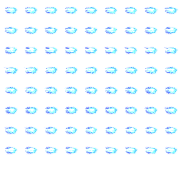
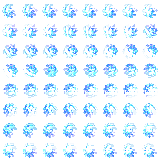
added some effects to the game state. Basically the foundation of explosion or burst effects along with sound effects

diff --git a/Abyss/Master/GameMaster.cs b/Abyss/Master/GameMaster.cs
@@ -1,5 +1,6 @@
 using Abyss.Draw;
 using Abyss.Entities;
+using Abyss.Entities.Magic;
 using Abyss.Map;
 using Abyss.UI;
 using Microsoft.Xna.Framework;
@@ -45,12 +46,18 @@ namespace Abyss.Master
         // declare debug vars
         protected internal double fps;
 
+        // draw data
+        protected internal List<Effect> effects;
+
         // save data
         protected internal GameData save;
         private bool in_tutorial;
 
         // declare basic constructor
-        public GameMaster() { }
+        public GameMaster() 
+        { 
+            effects = new List<Effect>();
+        }
 
 
 
@@ -171,6 +178,13 @@ namespace Abyss.Master
 
 
 
+        // EFFECTS
+        public void Burst(Vector2 position)
+        {
+            effects.Add(Effect.BurstEffect(position));
+        }
+
+
 
 
 
@@ -262,6 +276,7 @@ namespace Abyss.Master
                         // clear particles
                         player.Inventory.grimoires[0].Clear();
                         player.Inventory.grimoires[1].Clear();
+                        effects.Clear();
                     }
                 }
             }
@@ -281,9 +296,12 @@ namespace Abyss.Master
                 // enemies take damage
                 for (int i = 0; i < 2; i++)
                 {
-                    double damage_dealt = player.Inventory.grimoires[i].Hits(entity);
-                    if (damage_dealt != 0)
-                        entity.ReduceHealth(damage_dealt);
+                    Particle damager = player.Inventory.grimoires[i].Hits(entity);
+                    if (damager != null)
+                    {
+                        this.Burst(damager.position);
+                        entity.ReduceHealth(damager.damage);
+                    }
                 }
 
                 // enemies deal damage
@@ -306,6 +324,9 @@ namespace Abyss.Master
                     this.LoadSaveState(SaveState.start);
                 this.current_level.ResetEntities();
             }
+
+            foreach (Effect effect in effects) effect.Update(delta);
+            effects.RemoveAll(fx => fx.IsDead());
         }
 
 
@@ -333,6 +354,8 @@ namespace Abyss.Master
             // draw the particles of the game
             sprite_batch.Draw(player.Inventory.grimoires[0]);
             sprite_batch.Draw(player.Inventory.grimoires[1]);
+
+            foreach (Effect fx in effects) sprite_batch.Draw(fx);
         }
 
         /// <summary>

diff --git a/Abyss/Entities/Magic/Particle.cs b/Abyss/Entities/Magic/Particle.cs
@@ -64,8 +64,6 @@ namespace Abyss.Entities.Magic
         public double rotation;
         public bool pierce;
 
-        public Particle connection;
-
 
         /** PARTICLE CONSTRUCTOR */
         public Particle(Entity parent, Vector2 position, Vector2 velocity, ParticleController pc, double damage, double rotation, AnimatedSprite sprite, Particle? connection_point = null)
@@ -80,25 +78,6 @@ namespace Abyss.Entities.Magic
             this.rotation = rotation;
             this.sprite = sprite;
             this.pierce = pc.pierce;
-
-            if (connection_point != null) this.connection = connection_point;
-            else this.connection = null;
-        }
-
-        public Particle(Entity entity)
-        {
-            this.parent = entity;
-            this.position = entity.GetPosition() + new Vector2(8, 8);
-            this.velocity = Vector2.Zero;
-            this.accel = 0;
-            this.lifetime = 0;
-            this.element = Element.NULL;
-            this.damage = 0;
-            this.rotation = 0;
-            this.sprite = null;
-            this.pierce = false;
-
-            this.connection = null;
         }
 
 

diff --git a/Abyss/Entities/Magic/Grimoire.cs b/Abyss/Entities/Magic/Grimoire.cs
@@ -109,16 +109,15 @@ namespace Abyss.Entities.Magic
         /// </summary>
         /// <param name="entity"></param>
         /// <returns></returns>
-        public double Hits(Entity entity)
+        public Particle Hits(Entity entity)
         {
             Particle dealer = Particles.Find(x => x.IsColliding(entity));
             if (dealer != null)
             {
-                double damage = dealer.damage;
                 if (!dealer.pierce) Particles.Remove(dealer);
-                return damage;
+                return dealer;
             }
-            return 0;
+            return null;
         }
 
         public void GenerateParticle(Entity parent, Vector2 velocity, byte type, double rotation)
@@ -167,6 +166,7 @@ namespace Abyss.Entities.Magic
                 Tile tile = game_state.GetCurrentTileMap().GetCollisionLayer().GetTiles()[tile_pos.y, tile_pos.x];
                 if (particle.IsColliding(tile) && !tile.NULL)
                 {
+                    game_state.Burst(particle.position);
                     _particles.Add(particle);
                     break;
                 }

diff --git a/Abyss/Game.cs b/Abyss/Game.cs
@@ -70,6 +70,8 @@ namespace Abyss
             // Load sprites
             Globals.TestBox = Content.Load<Texture2D>("testbox");
 
+            Texture2D burst_texture = Content.Load<Texture2D>("particles/burst");
+
             Texture2D base_spell_texture = Content.Load<Texture2D>("spells/spell");
             Texture2D fire_spell_texture = Content.Load<Texture2D>("spells/fire");
             Texture2D water_spell_texture = Content.Load<Texture2D>("spells/water");
@@ -78,7 +80,9 @@ namespace Abyss
 
             Globals.BaseSpell = new AnimatedSprite(base_spell_texture, 20, 20, 71);
             Globals.FireSpell = new AnimatedSprite(fire_spell_texture, 19, 19, 71);
-            Globals.WaterSpell = new AnimatedSprite(water_spell_texture, 20, 20, 71);
+            Globals.WaterSpell = new AnimatedSprite(water_spell_texture, 20, 20, 63, 2);
+
+            Globals.BurstEffect = new AnimatedSprite(burst_texture, 25, 25, 19);
 
             // Load the Primary Game / UI
             GameMaster.TestLevel = Levels.Eastwoods;

diff --git a/Abyss/Master/Effect.cs b/Abyss/Master/Effect.cs
@@ -1,0 +1,42 @@
+using Abyss.Draw;
+using Abyss.Entities.Magic;
+using Microsoft.Xna.Framework;
+using System;
+using System.Collections.Generic;
+using System.Linq;
+using System.Text;
+using System.Threading.Tasks;
+
+namespace Abyss.Master
+{
+    internal class Effect
+    {
+        public Vector2 position;
+        public AnimatedSprite sprite;
+        private protected double lifetime;
+
+
+        public Effect(Vector2 position, AnimatedSprite sprite, double lifetime)
+        {
+            this.position = position;
+            this.sprite = sprite;
+            this.lifetime = lifetime;
+        }
+
+        public void Update(double delta)
+        {
+            sprite.Update(delta);
+            lifetime -= delta;
+        }
+
+        public bool IsDead()
+        {
+            return lifetime <= 0;
+        }
+
+        public static Effect BurstEffect(Vector2 position)
+        {
+            return new Effect(position, Globals.BurstEffect, 0.28);
+        }
+    }
+}

diff --git a/Abyss/Draw/Extensions.cs b/Abyss/Draw/Extensions.cs
@@ -9,6 +9,7 @@ using System.Numerics;
 using System.Text;
 using System.Threading.Tasks;
 using Vector2 = Microsoft.Xna.Framework.Vector2;
+using Effect = Abyss.Master.Effect;
 
 namespace Abyss.Draw
 {
@@ -23,6 +24,12 @@ namespace Abyss.Draw
                 Color.White,
                 (float)rotation, new Vector2(sprite.width / 2, sprite.height / 2),
                 SpriteEffects.None, 0);
+        }
+
+
+        public void Draw(Effect fx)
+        {
+            this.Draw(fx.sprite, fx.position, 0);
         }
     }
 }

diff --git a/Abyss/Globals.cs b/Abyss/Globals.cs
@@ -58,6 +58,9 @@ namespace Abyss
         public static AnimatedSprite SteamSpell = null;
         public static AnimatedSprite BoilSpell = null;
 
+        // particle effects
+        public static AnimatedSprite BurstEffect = null;
+
         // DRAW LAYERS
         public static readonly float floor_z = 0.05f;
         public static readonly float deco_z = 0.04f;

diff --git a/Abyss/Draw/AnimatedSprite.cs b/Abyss/Draw/AnimatedSprite.cs
@@ -72,6 +72,7 @@ namespace Abyss.Draw
 
         public Rectangle DestinationRectangle()
         {
+            if (frame >= frame_limit) frame = frame_limit;
             return sprites[(int)frame];
         }
 
